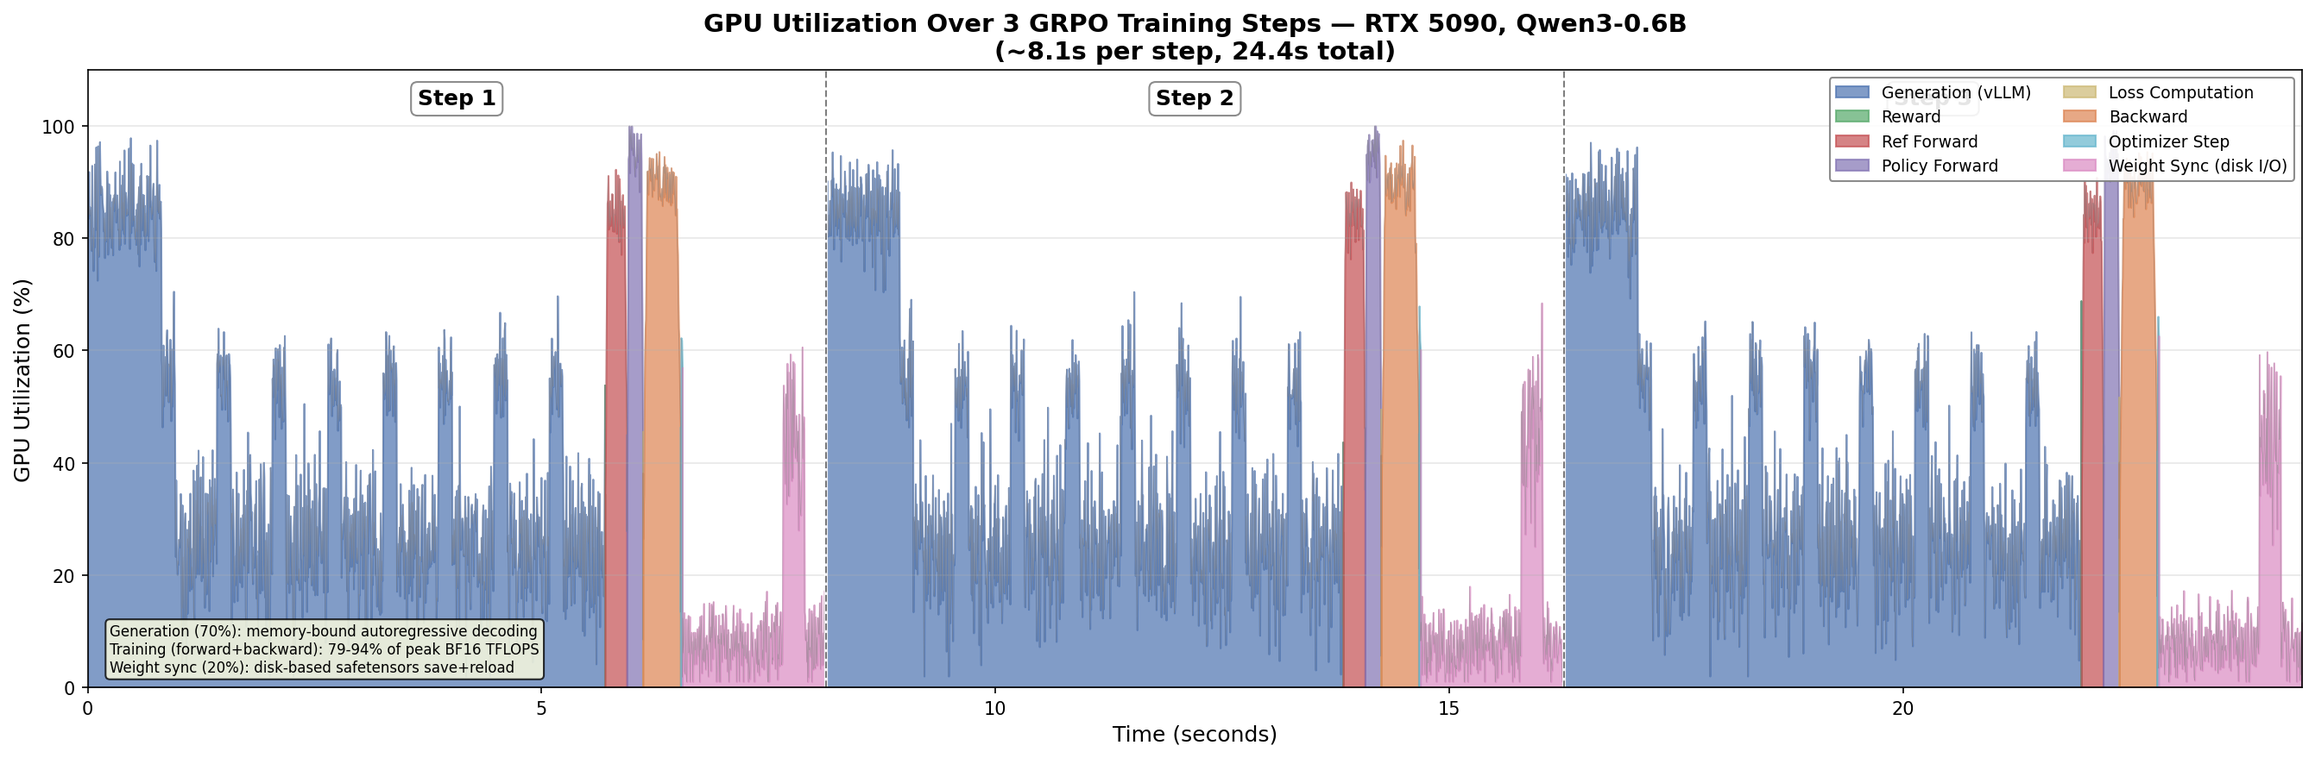
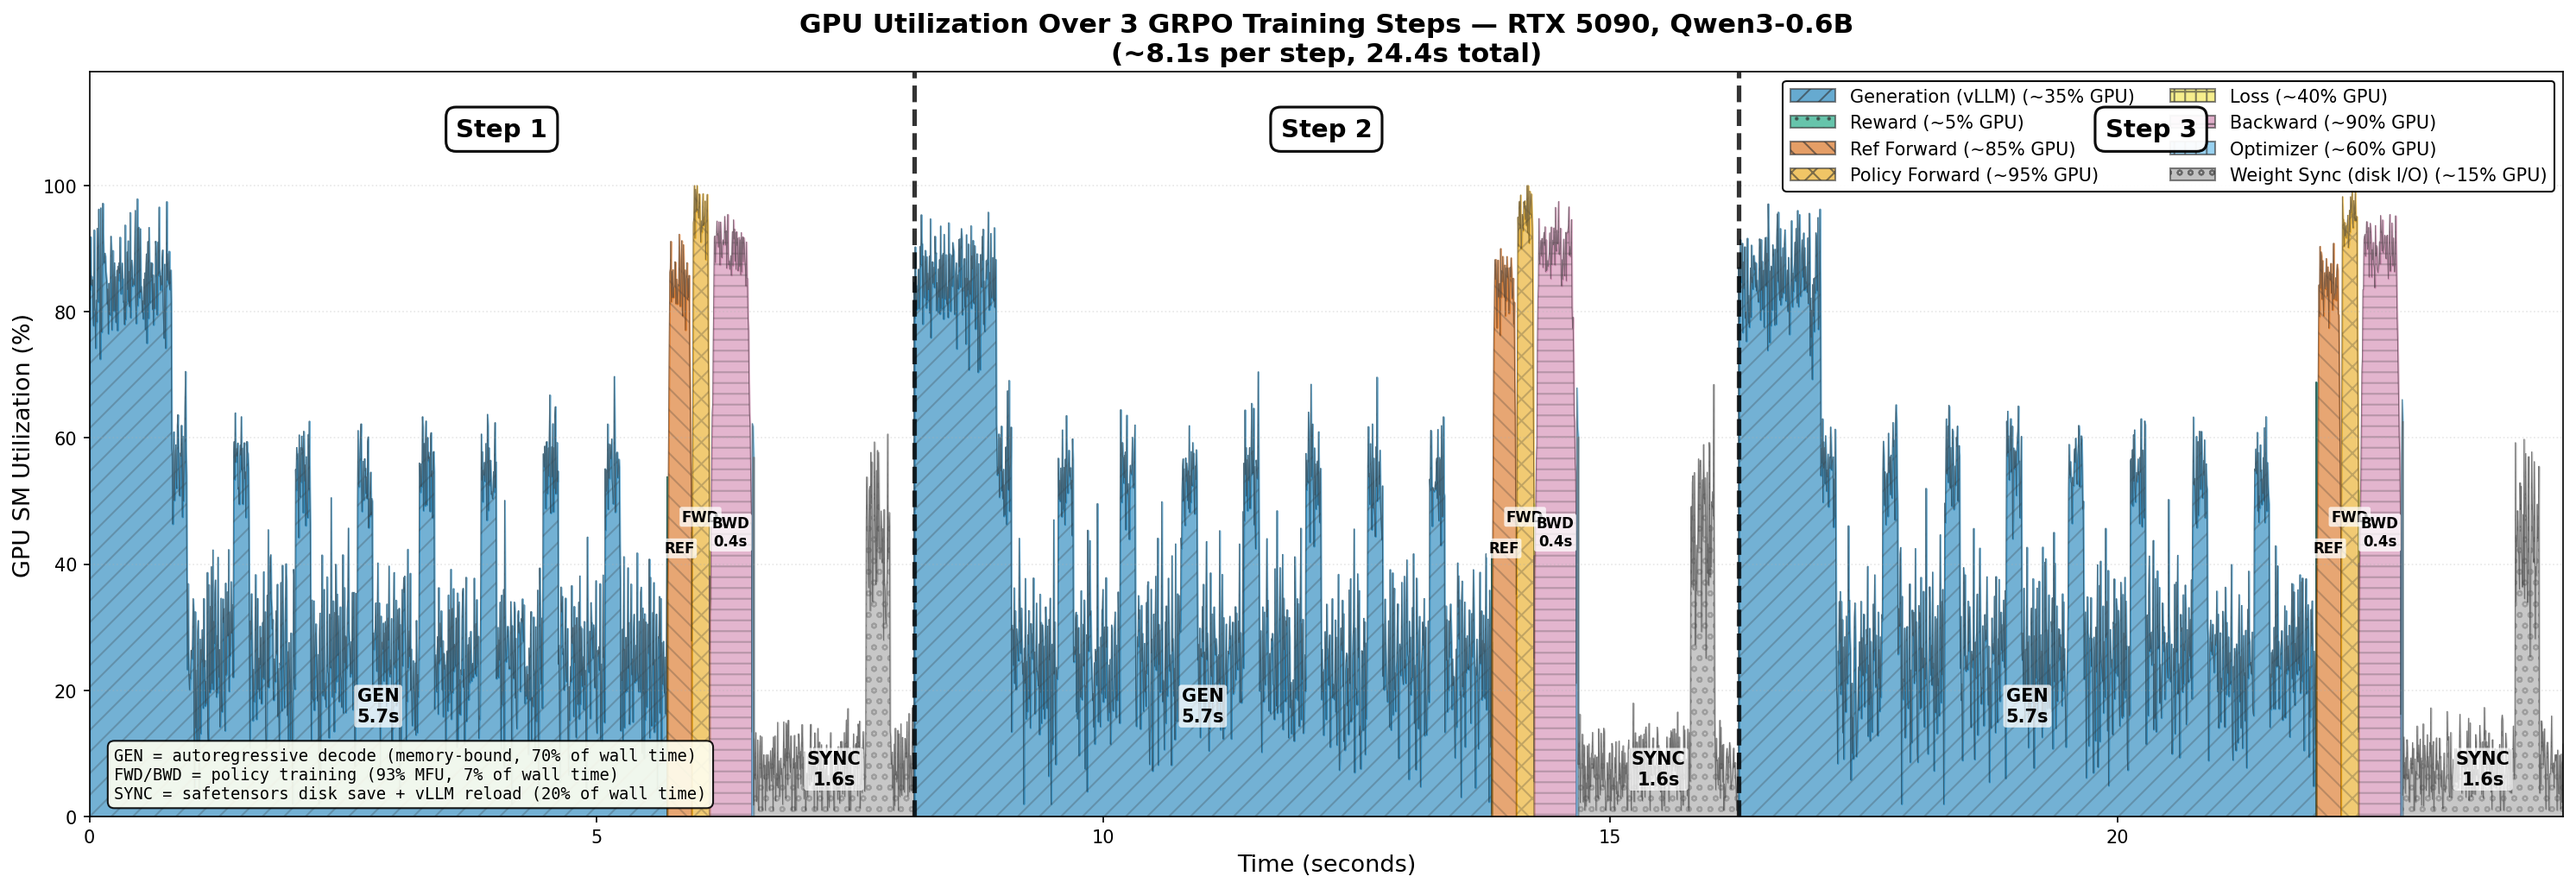
Colorblind-safe GPU utilization plot with hatching + direct labels
- Wong colorblind-safe palette (no red-green confusion)
- Hatching patterns on each phase (//  \\  xx  --  etc.)
- Direct text labels on phase bands (GEN, FWD, BWD, SYNC + duration)
- Thick black dashed step boundaries with large step numbers
- Legend includes both color+hatch and GPU% per phase

diff --git a/scripts/plot_gpu_utilization.py b/scripts/plot_gpu_utilization.py
@@ -2,7 +2,8 @@
 
 Creates a timeline showing simulated GPU utilization for each phase of the
 GRPO training loop, based on profiling data from profile_summary.json.
-Each phase is color-coded and labeled, with step boundaries marked.
+Each phase uses a colorblind-safe palette with hatching patterns and
+direct text labels for accessibility.
 """
 
 import json
@@ -13,16 +14,16 @@ import matplotlib.pyplot as plt
 import matplotlib.patches as mpatches
 from pathlib import Path
 
-# Phase colors and approximate GPU utilization per phase
+# Colorblind-safe palette (Wong 2011) + hatching patterns + direct labels
 PHASE_CONFIG = {
-    "generation":      {"color": "#4C72B0", "gpu_util": 0.35, "label": "Generation (vLLM)"},
-    "reward":          {"color": "#55A868", "gpu_util": 0.05, "label": "Reward"},
-    "ref_forward":     {"color": "#C44E52", "gpu_util": 0.85, "label": "Ref Forward"},
-    "policy_forward":  {"color": "#8172B3", "gpu_util": 0.95, "label": "Policy Forward"},
-    "loss_computation":{"color": "#CCB974", "gpu_util": 0.40, "label": "Loss Computation"},
-    "backward":        {"color": "#DD8452", "gpu_util": 0.90, "label": "Backward"},
-    "optimizer_step":  {"color": "#64B5CD", "gpu_util": 0.60, "label": "Optimizer Step"},
-    "weight_sync":     {"color": "#DA8BC3", "gpu_util": 0.15, "label": "Weight Sync (disk I/O)"},
+    "generation":      {"color": "#0072B2", "gpu_util": 0.35, "label": "Generation (vLLM)",   "hatch": "//",  "short": "GEN"},
+    "reward":          {"color": "#009E73", "gpu_util": 0.05, "label": "Reward",               "hatch": "..",  "short": "RWD"},
+    "ref_forward":     {"color": "#D55E00", "gpu_util": 0.85, "label": "Ref Forward",          "hatch": "\\\\","short": "REF"},
+    "policy_forward":  {"color": "#E69F00", "gpu_util": 0.95, "label": "Policy Forward",       "hatch": "xx",  "short": "FWD"},
+    "loss_computation":{"color": "#F0E442", "gpu_util": 0.40, "label": "Loss",                 "hatch": "++",  "short": "LOSS"},
+    "backward":        {"color": "#CC79A7", "gpu_util": 0.90, "label": "Backward",             "hatch": "--",  "short": "BWD"},
+    "optimizer_step":  {"color": "#56B4E9", "gpu_util": 0.60, "label": "Optimizer",            "hatch": "||",  "short": "OPT"},
+    "weight_sync":     {"color": "#999999", "gpu_util": 0.15, "label": "Weight Sync (disk I/O)","hatch": "oo", "short": "SYNC"},
 }
 
 # Phase order within a step
@@ -117,12 +118,12 @@ def plot_gpu_utilization(
     total_step_ms: float,
     output_path: str,
 ):
-    fig, ax = plt.subplots(figsize=(18, 6))
+    fig, ax = plt.subplots(figsize=(20, 7))
 
     # Plot the utilization trace as a thin line
-    ax.plot(time_ms / 1000, gpu_util * 100, color="gray", linewidth=0.3, alpha=0.5)
+    ax.plot(time_ms / 1000, gpu_util * 100, color="#333333", linewidth=0.4, alpha=0.4)
 
-    # Fill each phase with its color
+    # Fill each phase with color + hatching pattern
     for start_ms, end_ms, phase_name, step_idx in phase_spans:
         cfg = PHASE_CONFIG[phase_name]
         mask = (time_ms >= start_ms) & (time_ms <= end_ms)
@@ -130,9 +131,40 @@ def plot_gpu_utilization(
             continue
         t_sec = time_ms[mask] / 1000
         u_pct = gpu_util[mask] * 100
-        ax.fill_between(t_sec, 0, u_pct, color=cfg["color"], alpha=0.7)
 
-    # Mark step boundaries
+        # Color fill
+        ax.fill_between(t_sec, 0, u_pct, color=cfg["color"], alpha=0.55)
+        # Hatching overlay for colorblind accessibility
+        ax.fill_between(t_sec, 0, u_pct, facecolor="none",
+                         edgecolor="#333333", alpha=0.25,
+                         hatch=cfg["hatch"], linewidth=0.5)
+
+    # Direct text labels on each phase band
+    for start_ms, end_ms, phase_name, step_idx in phase_spans:
+        cfg = PHASE_CONFIG[phase_name]
+        duration_ms = end_ms - start_ms
+        mid_t = (start_ms + end_ms) / 2 / 1000
+        avg_util = cfg["gpu_util"] * 100
+
+        # Only label phases wide enough to fit text
+        if duration_ms > 100:
+            label = cfg["short"]
+            # Place label at center of the phase band
+            label_y = min(avg_util * 0.5, 45) if avg_util < 50 else avg_util * 0.5
+            fontsize = 10 if duration_ms > 500 else 8
+            # Add duration for major phases
+            if duration_ms > 300:
+                label += f"\n{duration_ms/1000:.1f}s"
+            ax.text(
+                mid_t, label_y, label,
+                ha="center", va="center", fontsize=fontsize, fontweight="bold",
+                color="black",
+                bbox=dict(boxstyle="round,pad=0.15", facecolor="white",
+                          edgecolor="none", alpha=0.75),
+                zorder=5,
+            )
+
+    # Step boundaries — thick black dashed lines
     num_steps = max(s[3] for s in phase_spans) + 1
     for step_idx in range(num_steps):
         step_phases = [s for s in phase_spans if s[3] == step_idx]
@@ -141,49 +173,59 @@ def plot_gpu_utilization(
         step_start = step_phases[0][0] / 1000
         step_end = step_phases[-1][1] / 1000
 
-        # Step boundary lines
+        # Thick step boundary lines
         if step_idx > 0:
-            ax.axvline(step_start, color="white", linewidth=2, linestyle="-", alpha=0.9)
-            ax.axvline(step_start, color="black", linewidth=1, linestyle="--", alpha=0.5)
+            ax.axvline(step_start, color="black", linewidth=2.5,
+                       linestyle="--", alpha=0.8, zorder=6)
 
-        # Step label at top
+        # Step label at top — large and clear
         mid = (step_start + step_end) / 2
         ax.text(
-            mid, 103, f"Step {step_idx + 1}",
-            ha="center", va="bottom", fontsize=12, fontweight="bold",
-            bbox=dict(boxstyle="round,pad=0.3", facecolor="white", edgecolor="gray", alpha=0.9),
+            mid, 107, f"Step {step_idx + 1}",
+            ha="center", va="bottom", fontsize=14, fontweight="bold",
+            bbox=dict(boxstyle="round,pad=0.4", facecolor="white",
+                      edgecolor="black", linewidth=1.5, alpha=0.95),
+            zorder=7,
         )
 
-    # Legend
+    # Legend with hatching patterns — colorblind-safe
     handles = []
     for phase_name in PHASE_ORDER:
         cfg = PHASE_CONFIG[phase_name]
-        handles.append(mpatches.Patch(color=cfg["color"], alpha=0.7, label=cfg["label"]))
+        pct = cfg["gpu_util"] * 100
+        patch = mpatches.Patch(
+            facecolor=cfg["color"], edgecolor="#333333",
+            hatch=cfg["hatch"], alpha=0.6,
+            label=f'{cfg["label"]} (~{pct:.0f}% GPU)',
+        )
+        handles.append(patch)
     ax.legend(
-        handles=handles, loc="upper right", ncol=2, fontsize=9,
-        framealpha=0.9, edgecolor="gray",
+        handles=handles, loc="upper right", ncol=2, fontsize=10,
+        framealpha=0.95, edgecolor="black", handlelength=2.5,
     )
 
     # Formatting
-    ax.set_xlabel("Time (seconds)", fontsize=12)
-    ax.set_ylabel("GPU Utilization (%)", fontsize=12)
+    ax.set_xlabel("Time (seconds)", fontsize=13)
+    ax.set_ylabel("GPU SM Utilization (%)", fontsize=13)
     ax.set_title(
         "GPU Utilization Over 3 GRPO Training Steps — RTX 5090, Qwen3-0.6B\n"
         f"(~{total_step_ms/1000:.1f}s per step, {total_step_ms*3/1000:.1f}s total)",
-        fontsize=14, fontweight="bold",
+        fontsize=15, fontweight="bold",
     )
-    ax.set_ylim(0, 110)
+    ax.set_ylim(0, 118)
     ax.set_xlim(time_ms[0] / 1000, time_ms[-1] / 1000)
-    ax.grid(axis="y", alpha=0.3)
+    ax.grid(axis="y", alpha=0.3, linestyle=":")
 
-    # Add MFU annotation
+    # Annotation box
     ax.text(
         0.01, 0.02,
-        "Generation (70%): memory-bound autoregressive decoding\n"
-        "Training (forward+backward): 79-94% of peak BF16 TFLOPS\n"
-        "Weight sync (20%): disk-based safetensors save+reload",
-        transform=ax.transAxes, fontsize=8, verticalalignment="bottom",
-        bbox=dict(boxstyle="round", facecolor="lightyellow", alpha=0.8),
+        "GEN = autoregressive decode (memory-bound, 70% of wall time)\n"
+        "FWD/BWD = policy training (93% MFU, 7% of wall time)\n"
+        "SYNC = safetensors disk save + vLLM reload (20% of wall time)",
+        transform=ax.transAxes, fontsize=9, verticalalignment="bottom",
+        fontfamily="monospace",
+        bbox=dict(boxstyle="round,pad=0.4", facecolor="#FFFFF0",
+                  edgecolor="black", alpha=0.9),
     )
 
     plt.tight_layout()
